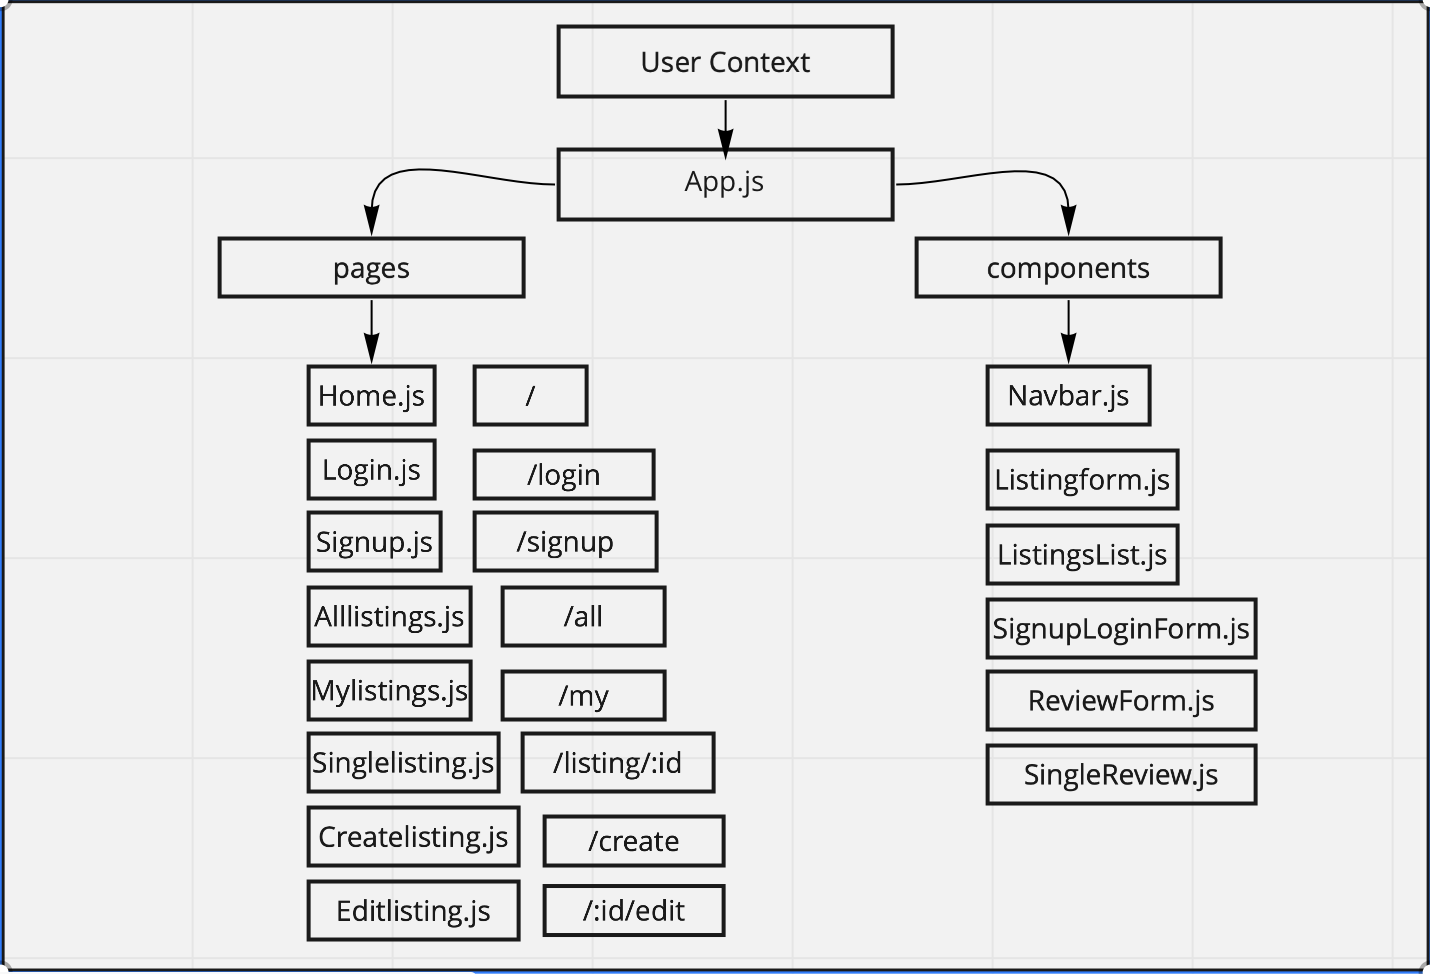
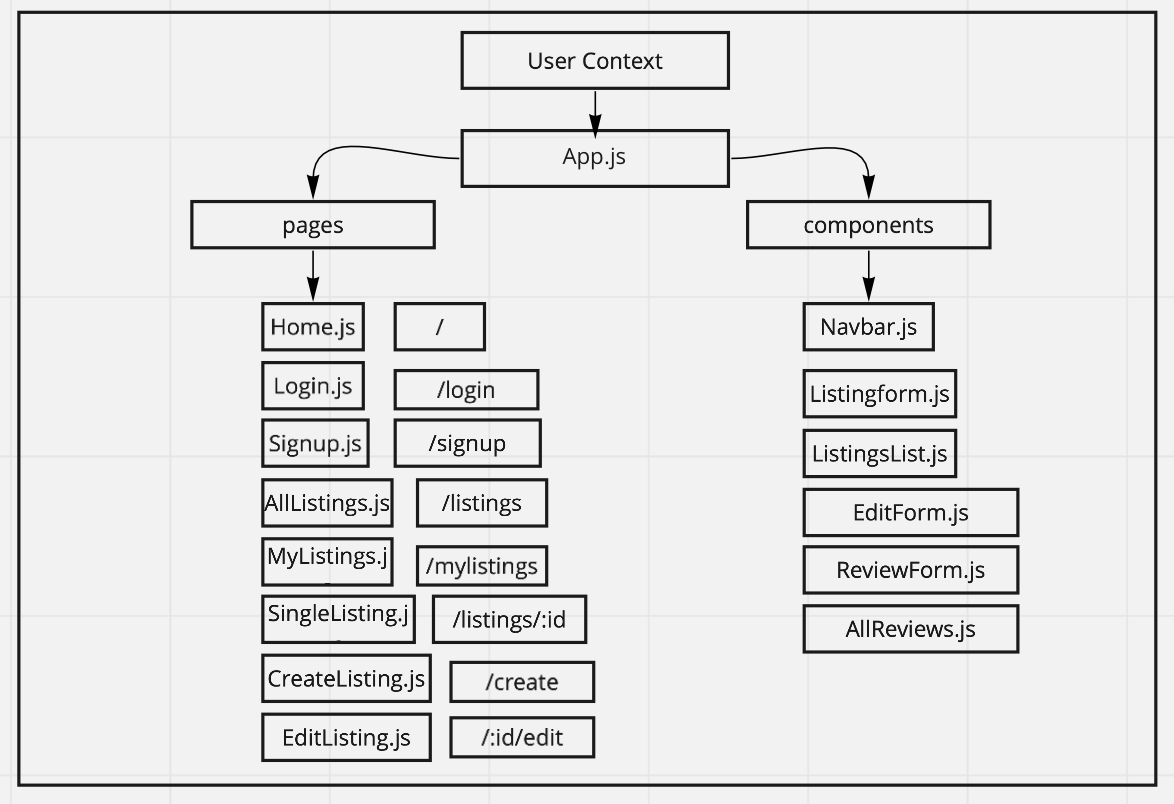
changes to readme, login and sign up

Changed region(s): [[0.0, 0.0, 1.0, 1.0], [0.6746, 0.1555, 0.7359, 0.1866], [0.276, 0.1555, 0.3373, 0.1866]]

diff --git a/partylist/src/pages/Home.js b/partylist/src/pages/Home.js
@@ -11,11 +11,30 @@ const Home = () => {
                 <h1>Categories</h1>
             </div>
             <div className="categoriesContainer">
-            <img className="categories" src="https://i.imgur.com/ziqAlM9.jpg"/>
-            <img className="categories" src="https://i.imgur.com/dmUVvlS.jpg"/>
-            <img className="categories" src="https://i.imgur.com/JUkwAXr.jpg"/>
-            <img className="categories" src="https://i.imgur.com/gqxLOCP.jpg"/>
-            <img className="categories" src="https://i.imgur.com/QZ8opHz.jpg"/>
+                <div className="cakesCategory">
+                <h3 className="cakesTitle">Cakes</h3>    
+                <img className="categories" src="https://i.imgur.com/ziqAlM9.jpg"/>
+                </div>
+                <div className="baloonCategory">
+                <h3 className="baloonTitle">Balloon decor</h3> 
+                <img className="categories" src="https://i.imgur.com/dmUVvlS.jpg"/>
+                </div>
+                <div className="bouncehouseCategory">
+                <h3 className="bouncehouseTitle">Bounce houses</h3> 
+                <img className="categories" src="https://i.imgur.com/JUkwAXr.jpg"/>
+                </div>
+                <div className="photoCategory">
+                <h3 className="photoTitle">Photo and Video Productions</h3> 
+                <img className="categories" src="https://i.imgur.com/gqxLOCP.jpg"/>
+                </div>
+                <div className="djCategory">
+                <h3 className="djTitle">DJ's</h3> 
+                <img className="categories" src="https://i.imgur.com/QZ8opHz.jpg"/>
+                </div>
+                <div className="flowerCategory">
+                <h3 className="flowerTitle">Flower arrangements</h3> 
+                <img className="categories" src="https://i.imgur.com/YFhMpQB.jpg"/>
+                </div>
             </div> 
         </div>
  

diff --git a/partylist/src/pages/SingleListing.js b/partylist/src/pages/SingleListing.js
@@ -8,7 +8,6 @@ import {
     faInstagram
   } from "@fortawesome/free-brands-svg-icons";
 import AllReviews from '../components/AllReviews'
-import ReviewForm from '../components/ReviewForm';
 
 const SingleListing = (props) => {
     const [listing, setListing] = useState ({})
@@ -34,14 +33,16 @@ const SingleListing = (props) => {
     useEffect(fetchSingleListing, [])
     useEffect(fetchSingleListing, [shouldReload])
 
-    const isCreator = () => {
-      return listing.user && listing.user.email === user.email
-    }
-
+    // const isCreator = () => {
+      
+    //   return listing.user && listing.user.email === user.email
+      
+    // }
+    
     return (
         <div>
           { shouldRedirect && <Redirect to={shouldRedirect} /> }
-          { isCreator() && 
+          {/* { isCreator() &&  */}
             <div className="listingNavLinks">
                 <Link to={`/mylistings`}><button className="listingButton" onClick = {() =>(
                  axios.delete (`${process.env.REACT_APP_BACKEND_URL}/listings/${props.id}`, {
@@ -54,7 +55,7 @@ const SingleListing = (props) => {
                 )}>Delete</button></Link>
                 <Link to={`/mylistings/${props.id}/edit`}><button className="listingButton">Update</button></Link>
                 </div>
-              }
+              {/* } */}
             <div className="singleListingContainer">
             <h2>{listing.title}</h2>
             <div className="singleListingImage">

diff --git a/partylist/src/pages/Signup.js b/partylist/src/pages/Signup.js
@@ -8,7 +8,7 @@ const Signup = () => {
     const [name, setName] = useState ('')
     const [email, setEmail] = useState ('')
     const [password, setPassword] = useState ('')
-    const { userState } = useContext(UserContext)
+    const { userState, fetchUser } = useContext(UserContext)
     const [user, setUser] = userState
     const [shouldRedirect, setShouldRedirect] = useState(false)
 
@@ -18,8 +18,9 @@ const Signup = () => {
         axios.post(`${process.env.REACT_APP_BACKEND_URL}/users/signup`, {email, password})
         .then((response) => {
             console.log(response)
-            localStorage.setItem('userId', response.data.user.id)
-            setUser(response.data.user)
+            localStorage.setItem('userId', response.data.userId)
+            fetchUser()
+            // setUser(response.data.user)
             setShouldRedirect(true)
         })
     }

diff --git a/partylist/src/pages/Login.js b/partylist/src/pages/Login.js
@@ -7,7 +7,7 @@ import { useContext } from 'react'
 const Login = () => {
   const [email, setEmail] = useState ('')
   const [password, setPassword] = useState ('')
-  const { userState } = useContext(UserContext)
+  const { userState, fetchUser} = useContext(UserContext)
   const [user, setUser] = userState
   const [shouldRedirect, setShouldRedirect] = useState(false)
 
@@ -17,8 +17,9 @@ const Login = () => {
       axios.post(`${process.env.REACT_APP_BACKEND_URL}/users/login`, {email, password})
       .then((response) => {
           console.log(response)
-          localStorage.setItem('userId', response.data.id)
-          setUser(response.data)
+          localStorage.setItem('userId', response.data.userId)
+          fetchUser()
+          // setUser(response.data)
           setShouldRedirect(true)
       })
   }

diff --git a/partylist/src/components/Navbar.js b/partylist/src/components/Navbar.js
@@ -10,8 +10,12 @@ const Navbar = () => {
 
     return (
         <div className="headerSection">
-            <span className="homeTitle">Partylist</span>
-        <nav className="navbar">
+            <div className="logo">
+                <span className="homeTitle">Partylist</span>
+            </div>
+            
+            <div>
+            <nav className="navbar">
            
             <span className="navLinks">
             <Link to="/">Home</Link>
@@ -42,7 +46,8 @@ const Navbar = () => {
                 </span>
             </span>
             }
-        </nav>
+            </nav>
+            </div>
         </div>
         
     ) 

diff --git a/partylist/src/context/UserContext.js b/partylist/src/context/UserContext.js
@@ -14,7 +14,12 @@ import axios from 'axios'
                  headers: {
                      authorization: userId
                  }
-             }).then((response) => setUser(response.data.user))
+             }).then((response) => {
+                 console.log(response)
+                 setUser(response.data.user)
+            })
+
+
          }
      }
 

diff --git a/partylist/src/App.css b/partylist/src/App.css
@@ -316,12 +316,26 @@
   border: 1px solid #A2ABCE; 
 }
 
+.logo {
+  position: absolute;
+  margin-top: 10px;
+}
+
 .homeTitle {
   text-align: center;
   font-family: 'Oleo Script', cursive;
   position: relative;
   font-size: 20px;
   margin-left: 10px;
+  color: #F5631A;
+  font-size: 30px;
+  
+}
+
+
+
+.cakesTitle {
+  position: relative;
 }
 
 

diff --git a/README.md b/README.md
@@ -1,7 +1,7 @@
 # Party List
 
 ## Overview
-This app contains information about any party providers that people need to plan their events and parties. You can choose from different categories such as bakery, baloon decorations, party characters and etc
+This app contains information about any party providers that people need to plan their events and parties.
 
 ## Wireframes
 
@@ -15,28 +15,33 @@ This app contains information about any party providers that people need to plan
 ## User stories
 
 1. When page loads, I see Home page.
-2. When I'm in Home page, i see links for Signup and Login.
+2. When I'm in Home page, i see links for All listings, Signup and Login.
 3. I can create a new profile, or login to an existing profile.
 4. If I create a new profile, i need to fill out name, email and password.
 5. For an existing profile, i fill out email and password and click Log in.
-6. When I successfully logged in as a user, I can choose a category i need and see the list of service providers.
-7. User can also create a listing.
-8. When i click on a listing, I can see image, description, city, and contact information.
-9. As a listing owner, i can edit and delete post.
+6. When I successfully logged in as a user, I can see All listings, My listings, Create and Logout links.
+7. When I click on All listings i can see the list of all listings.
+8. When I click on My listings, I can only see listings I created.
+8. When I click on create, it will bring me to a new page with create listing form.
+9. When i click on a single listing, I can see image, description, website, and social links as well as all reviews. I can write a review.
+10. As a listing owner, i can edit and delete listing.
+11. When I logout, i can see only Home, All listings, Signup and Login links.
 
 ## Routes inventory
 
 |Method|Path|Description|
 |---|---|---|
-|POST|/user/signup|create new user|
-|POST|/user/login|user login|
-|GET|/user/verify|user verify|
-|GET|/listing/all|see all listings|
-|GET|/listing/my|see my listings|
+|POST|/users/signup|create new user|
+|POST|/users/login|user login|
+|GET|/users/verify|user verify|
+|GET|/listings|see all listings|
+|GET|/listings/my|see my listings|
 |GET|/listing/:id|see single listing|
-|POST|/listing/create|create new listing|
+|POST|/listings/create|create new listing|
+|PUT|/listings/:id|update listing|
 |DELETE|/listing/:id|delete single listing|
-|POST|/listing/:id/review|see single listing reviews|
+|POST|/listings/:id/reviews|post review|
+|GET|/listings/:id/reviews|get all reviews for single listing|
 
 ## Database ERD
 
@@ -55,11 +60,14 @@ This app contains information about any party providers that people need to plan
 * sign up form
 * login form
 * Home page 
-* List of service providers
+* Show list of all listings
+* Show list of my listings
 * Create, edit and delete listing
+* Logout
 
 ## Stretch goals
 
+* create reviews
+* show reviews
 * Search by zip code
 * Categories
-* Reviews
